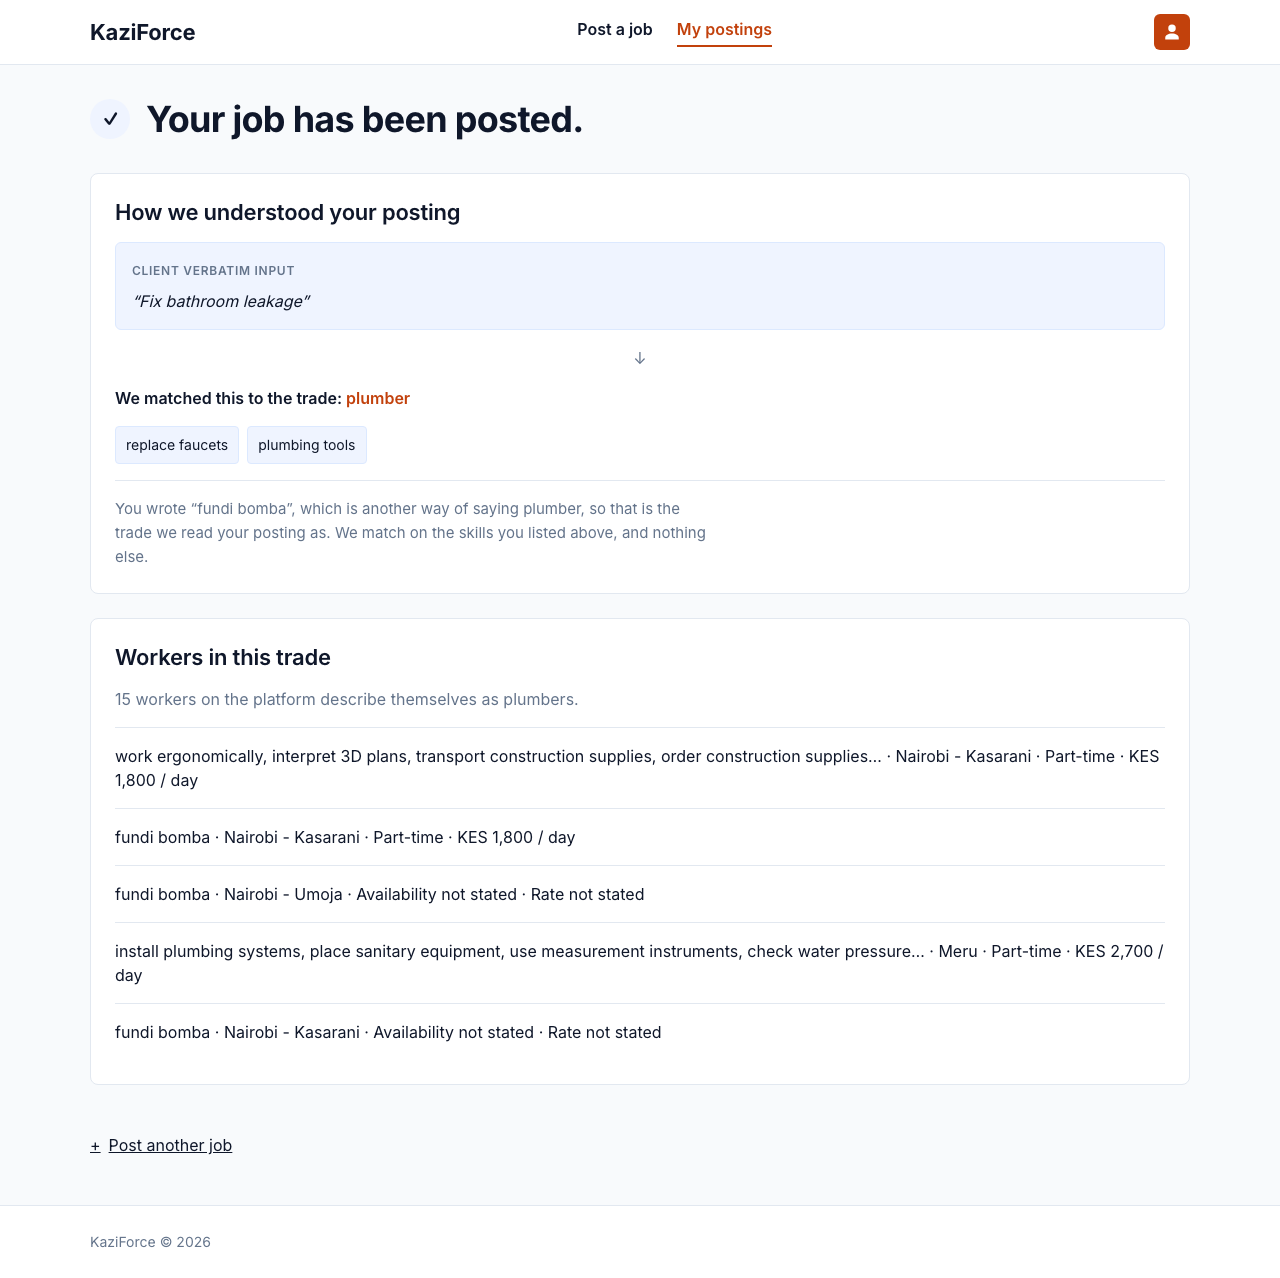
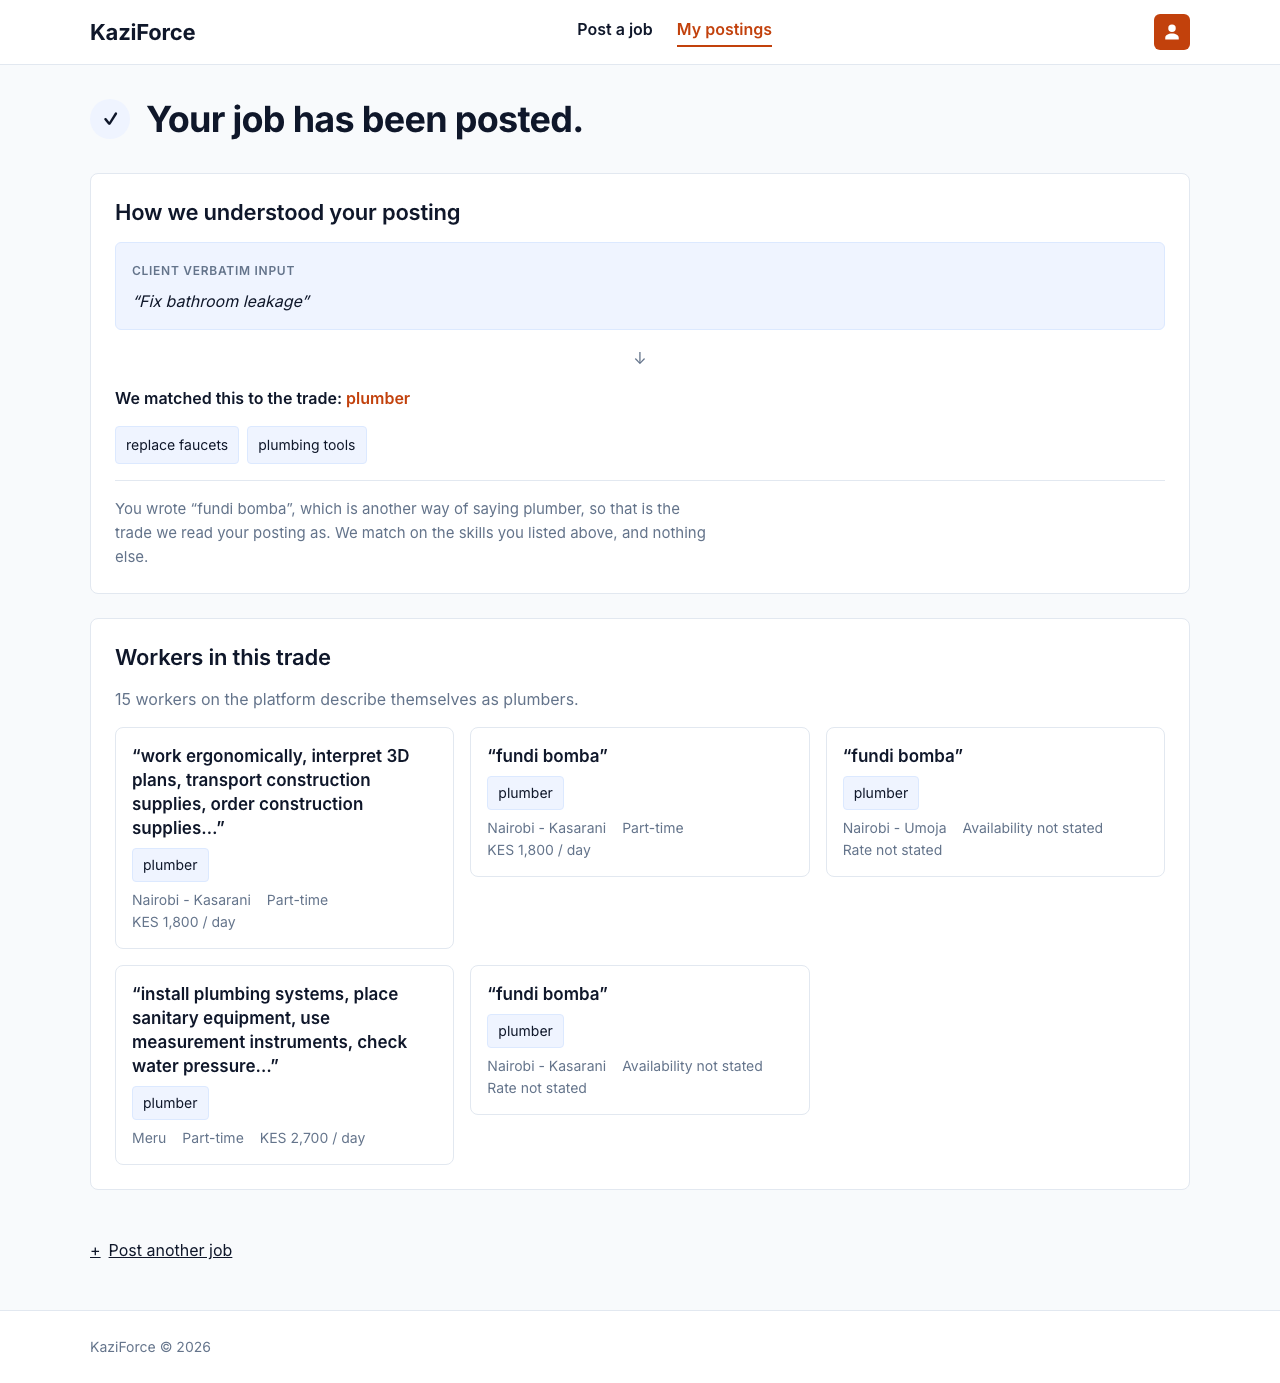
docs: record why clients see an unordered worker sample; capture landing and 08
limitations item 32 gives the reason the client view carries no ordering.
Adds 00-landing, re-captures 08 (worker cards) in both browsers, and replaces
the chromium 01-sign_in capture, which had the dev-server issues badge in it.

diff --git a/docs/limitations.md b/docs/limitations.md
@@ -183,3 +183,16 @@
     MacBook (CPU only), which installs an older but compatible torch and NumPy stack. CI runs on
     Linux with the current pins (`requirements.txt`), so embedding values can differ slightly between
     the two.
+
+32. **A client is shown an unordered sample of workers, not matches.** The confirmation screen
+    lists a sample of the workers in the posting's trade, with the count, and the cards carry no
+    score, no rank and no numbering. This is deliberate and not an omission. Matching runs from
+    worker to job only: the relevance labels (a posting is relevant to a worker if and only if
+    it is in their occupational area, item 21) were built for that direction, and there are no
+    labels and no evaluation for ranking workers against a posting (Chapter 4 scopes
+    job-to-worker matching out). Any order the page imposed would be read as a ranking, whether
+    it was by recency, rate, location or arrival, so the only presentation that does not claim
+    something unevaluated is no order at all. The sample is returned by the API in the order the
+    store yields it, which carries no meaning and may differ between requests. Consequence for
+    the thesis: a client cannot see which workers suit their job best. Bidirectional matching,
+    with its own labels and evaluation, is future work.
